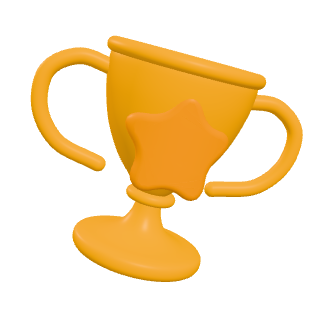
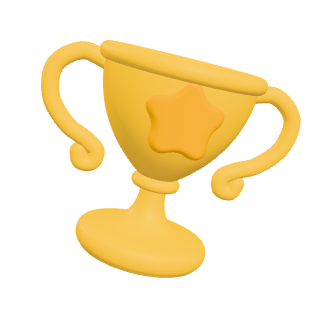
Remodela la copa 3D según la referencia de diseño
Copa amarillo dorado claro con cuenco más ancho, reborde grueso, asas con
rizo y estrella en relieve. Se regenera la imagen de las copas ganadas con
el mismo modelo.

diff --git a/src/components/ui/Trophy3D.tsx b/src/components/ui/Trophy3D.tsx
@@ -5,10 +5,11 @@ import { TessellateModifier } from 'three/examples/jsm/modifiers/TessellateModif
 import { Trophy } from 'lucide-react';
 
 /* Medidas del modelo (unidades de escena) */
-const RIM_Y = 3.15;
+const RIM_Y = 3.0;
 
-const GOLD = '#FFBA24';
-const GOLD_DEEP = '#F7A21A';
+/* Amarillo dorado claro, tipo juguete (referencia de diseño) */
+const GOLD = '#FFD650';
+const GOLD_DEEP = '#F5B92A';
 
 /** Perfil suave (spline por los puntos clave) torneado alrededor del eje Y. */
 function smoothLathe(keys: [number, number][], divisions = 64, segments = 96) {
@@ -34,15 +35,15 @@ function roundedStar(outer: number, inner: number) {
   return shape;
 }
 
-/** Copa: cuenco, reborde, asas en lazo, pie y base con perfiles suaves, y estrella en relieve. */
+/** Copa: cuenco ancho, reborde grueso, asas con rizo, pie con collar, base gruesa y estrella en relieve. */
 function buildTrophy(): { group: THREE.Group; dispose: () => void } {
   const group = new THREE.Group();
   const disposables: { dispose: () => void }[] = [];
 
   const body = new THREE.MeshStandardMaterial({
     color: GOLD,
-    roughness: 0.36,
-    metalness: 0.08,
+    roughness: 0.42,
+    metalness: 0,
     side: THREE.DoubleSide,
   });
   const accent = body.clone();
@@ -58,15 +59,15 @@ function buildTrophy(): { group: THREE.Group; dispose: () => void } {
 
   /* Cuenco */
   const bowlKeys: [number, number][] = [
-    [1.1, 3.15],
-    [1.13, 2.95],
-    [1.08, 2.55],
-    [0.93, 2.05],
-    [0.68, 1.6],
-    [0.42, 1.3],
-    [0.25, 1.12],
-    [0.12, 1.06],
-    [0, 1.05],
+    [1.15, 3.0],
+    [1.17, 2.85],
+    [1.12, 2.5],
+    [0.98, 2.1],
+    [0.74, 1.72],
+    [0.45, 1.42],
+    [0.26, 1.28],
+    [0.12, 1.24],
+    [0, 1.23],
   ];
   add(smoothLathe(bowlKeys));
 
@@ -74,16 +75,16 @@ function buildTrophy(): { group: THREE.Group; dispose: () => void } {
   add(
     smoothLathe(
       [
-        [0.2, 1.1],
-        [0.2, 0.95],
-        [0.25, 0.72],
-        [0.4, 0.5],
-        [0.66, 0.38],
-        [0.92, 0.33],
-        [1.02, 0.26],
-        [1.02, 0.12],
-        [0.92, 0.03],
-        [0.7, 0],
+        [0.2, 1.28],
+        [0.2, 1.15],
+        [0.22, 0.9],
+        [0.3, 0.68],
+        [0.5, 0.5],
+        [0.85, 0.42],
+        [1.0, 0.36],
+        [1.04, 0.22],
+        [0.98, 0.08],
+        [0.8, 0],
         [0, 0],
       ],
       64
@@ -91,33 +92,35 @@ function buildTrophy(): { group: THREE.Group; dispose: () => void } {
   );
 
   /* Reborde y collar */
-  const rim = add(new THREE.TorusGeometry(1.1, 0.11, 24, 128));
+  const rim = add(new THREE.TorusGeometry(1.15, 0.13, 24, 128));
   rim.rotation.x = Math.PI / 2;
   rim.position.y = RIM_Y;
-  const collar = add(new THREE.TorusGeometry(0.3, 0.09, 20, 64));
+  const collar = add(new THREE.TorusGeometry(0.28, 0.1, 20, 64));
   collar.rotation.x = Math.PI / 2;
-  collar.position.y = 1.04;
+  collar.position.y = 1.2;
 
-  /* Asas */
+  /* Asas: salen del borde, dan la vuelta y terminan en un pequeño rizo */
+  const handlePoints: [number, number][] = [
+    [1.08, 2.82],
+    [1.5, 2.9],
+    [1.85, 2.62],
+    [1.82, 2.15],
+    [1.5, 1.78],
+    [1.18, 1.62],
+    [1.0, 1.48],
+    [1.03, 1.3],
+    [1.2, 1.28],
+    [1.26, 1.43],
+  ];
   const handle = (side: 1 | -1) => {
     const curve = new THREE.CatmullRomCurve3(
-      [
-        [1.0, 2.8],
-        [1.55, 2.85],
-        [1.95, 2.55],
-        [1.95, 2.0],
-        [1.6, 1.55],
-        [0.92, 1.35],
-      ].map(([x, y]) => new THREE.Vector3(side * x, y, 0)),
+      handlePoints.map(([x, y]) => new THREE.Vector3(side * x, y, 0)),
       false,
       'centripetal'
     );
-    add(new THREE.TubeGeometry(curve, 96, 0.12, 20, false));
-    for (const [x, y] of [
-      [1.0, 2.8],
-      [0.92, 1.35],
-    ]) {
-      const cap = add(new THREE.SphereGeometry(0.12, 20, 14));
+    add(new THREE.TubeGeometry(curve, 128, 0.13, 20, false));
+    for (const [x, y] of [handlePoints[0], handlePoints[handlePoints.length - 1]]) {
+      const cap = add(new THREE.SphereGeometry(0.13, 20, 14));
       cap.position.set(side * x, y, 0);
     }
   };
@@ -125,12 +128,12 @@ function buildTrophy(): { group: THREE.Group; dispose: () => void } {
   handle(-1);
 
   /* Estrella en relieve, teselada y curvada para abrazar el cuenco */
-  const starY = 2.0;
-  const surfaceR = 1.04;
-  let starGeo: THREE.BufferGeometry = new THREE.ExtrudeGeometry(roundedStar(0.8, 0.4), {
+  const starY = 2.35;
+  const surfaceR = 1.06;
+  let starGeo: THREE.BufferGeometry = new THREE.ExtrudeGeometry(roundedStar(0.56, 0.3), {
     depth: 0.04,
     bevelEnabled: true,
-    bevelThickness: 0.1,
+    bevelThickness: 0.16,
     bevelSize: 0.1,
     bevelSegments: 6,
     curveSegments: 8,
@@ -201,7 +204,7 @@ const Trophy3D: React.FC<Trophy3DProps> = ({ className = '', active = true, onRe
     renderer.setPixelRatio(Math.min(window.devicePixelRatio, 2));
     renderer.outputColorSpace = THREE.SRGBColorSpace;
     renderer.toneMapping = THREE.NeutralToneMapping;
-    renderer.toneMappingExposure = 1.0;
+    renderer.toneMappingExposure = 1.08;
     renderer.domElement.style.width = '100%';
     renderer.domElement.style.height = '100%';
     renderer.domElement.style.display = 'block';
@@ -214,7 +217,7 @@ const Trophy3D: React.FC<Trophy3DProps> = ({ className = '', active = true, onRe
 
     /* Luz de estudio: ambiente suave + principal + contraluz cálido (sin mapas de entorno: compila rápido) */
     scene.add(new THREE.HemisphereLight('#fff6e4', '#d9c9ff', 2.6));
-    const key = new THREE.DirectionalLight('#fff1cc', 2.2);
+    const key = new THREE.DirectionalLight('#fff1cc', 2.6);
     key.position.set(3, 5, 6);
     scene.add(key);
     const rim = new THREE.DirectionalLight('#ffd98a', 1.4);
